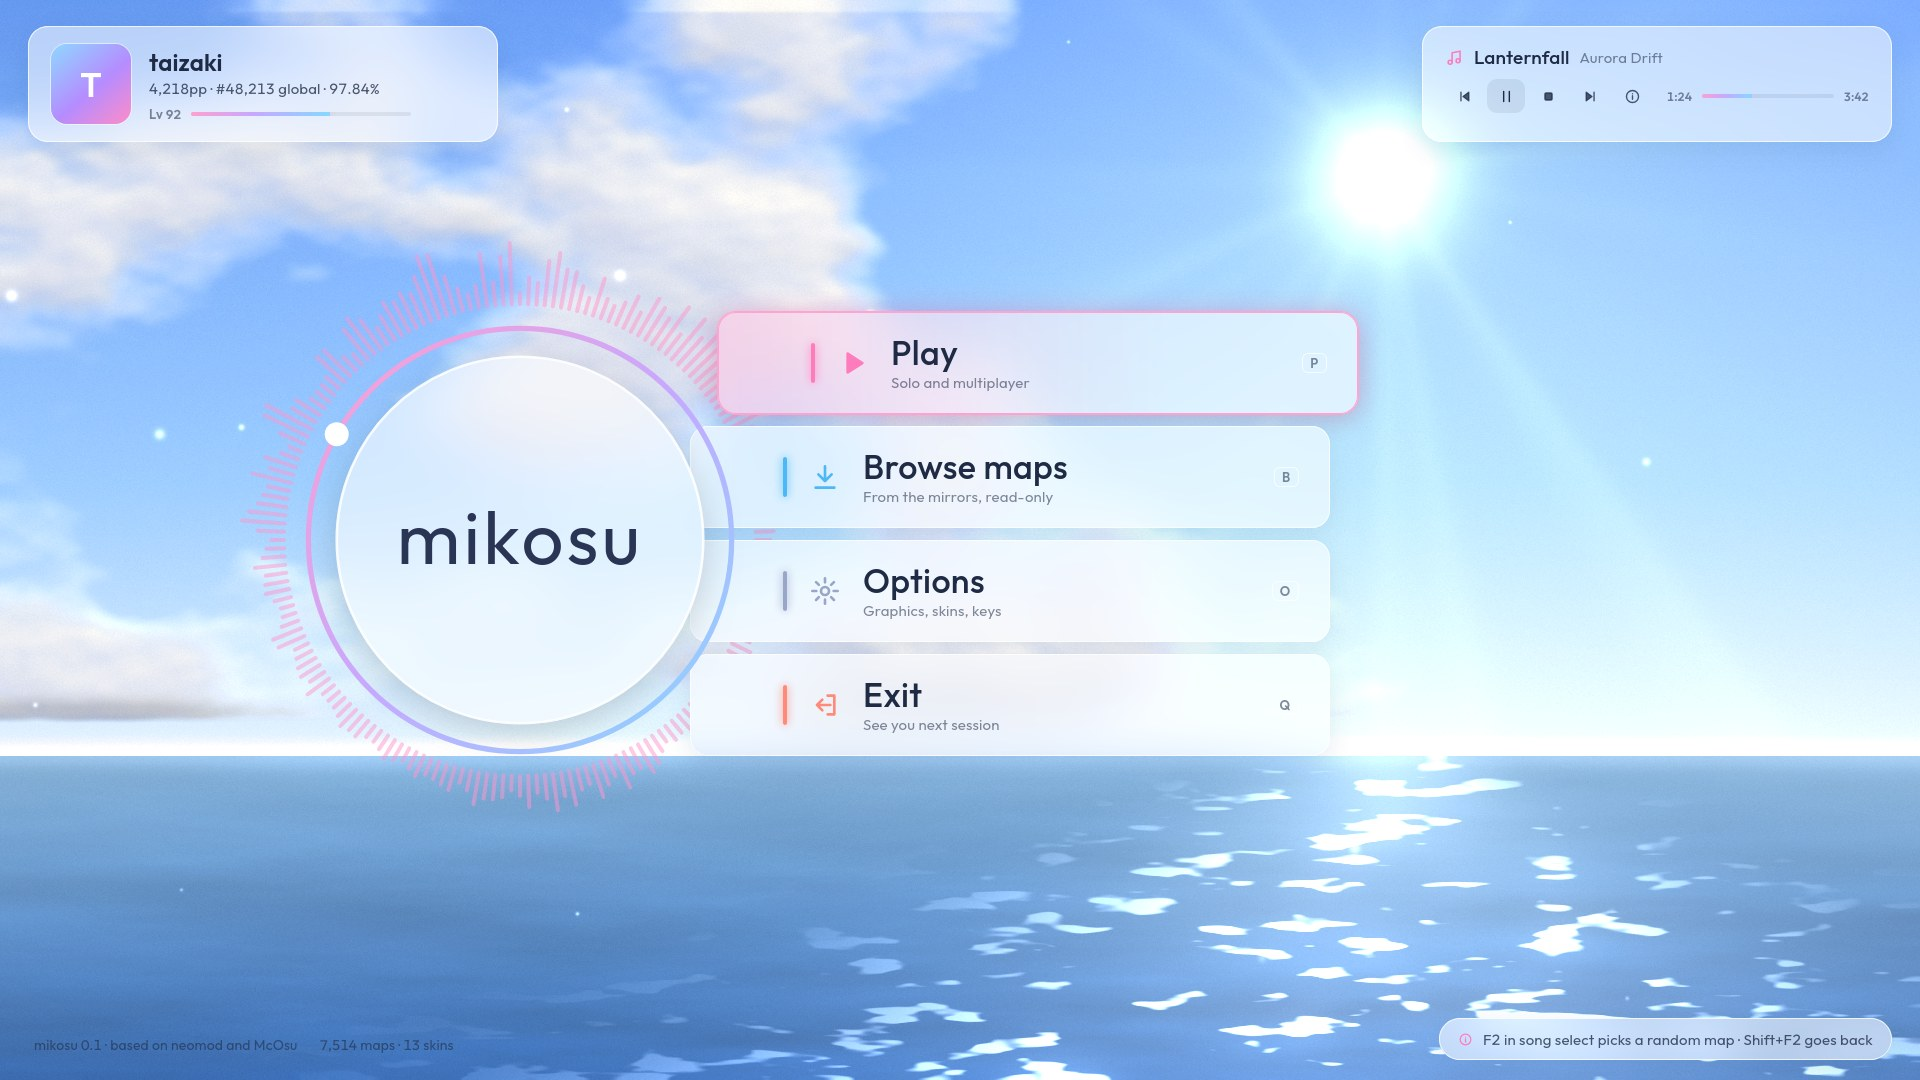
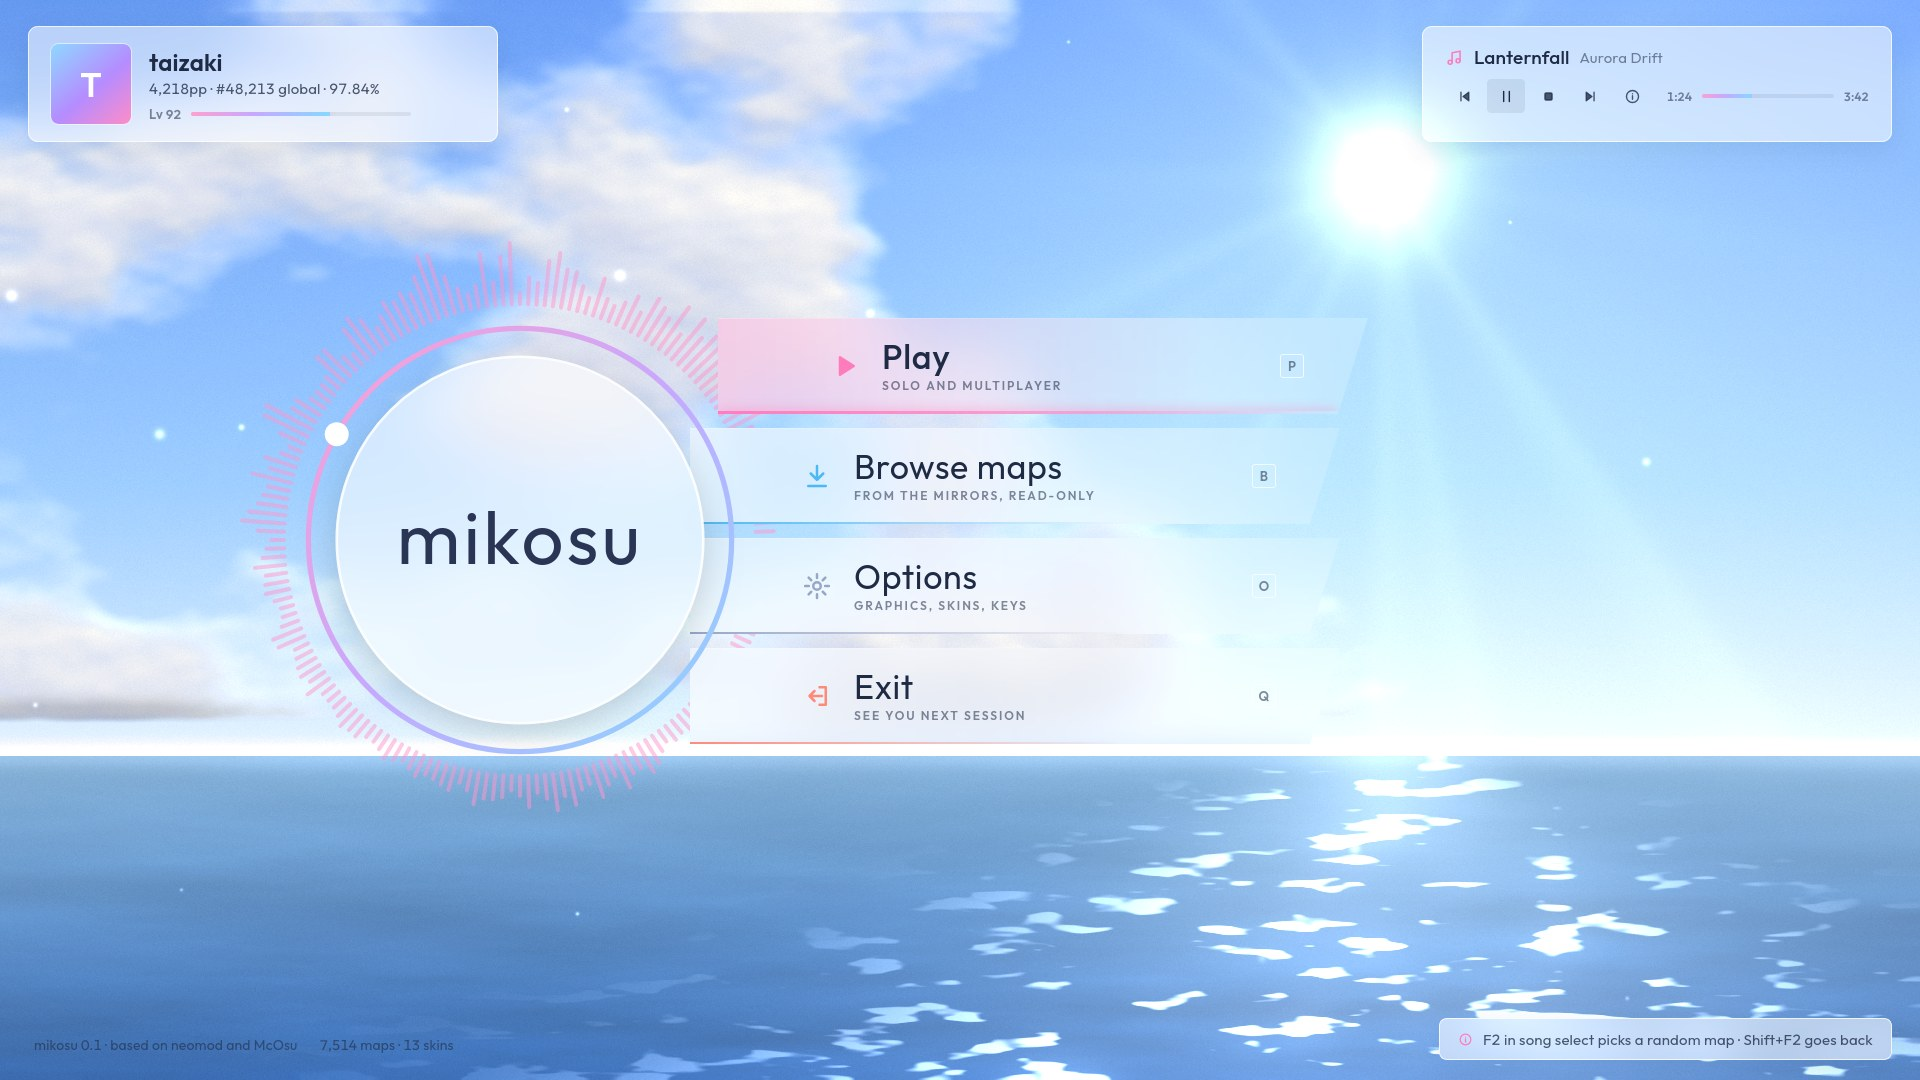
Design: sharper main-menu buttons with a diagonal cut
The user found the rounded main-menu buttons not aesthetic enough. They
become sharp frosted bars ending in song select's diagonal, with a thin
coloured line along the bottom and a small-caps subtitle; the main
screen's cards get smaller radii.

Changed region(s): [[0.375, 0.275, 0.7188, 0.4889], [0.375, 0.5194, 0.5312, 0.7028], [0.375, 0.4278, 0.5625, 0.4889]]

diff --git a/docs/renovation/mockups/src/round4.css b/docs/renovation/mockups/src/round4.css
@@ -272,10 +272,10 @@ svg.i { width: 1em; height: 1em; fill: none; stroke: currentColor; stroke-width:
 .mm-shade { position: absolute; inset: 0; background: radial-gradient(ellipse 70% 80% at 30% 50%, transparent, rgba(8, 12, 30, 0.28)); }
 .v-day .mm-shade { background: radial-gradient(ellipse 70% 80% at 30% 50%, transparent, rgba(255, 255, 255, 0.12)); }
 canvas.viz { position: absolute; left: 0; top: 0; width: 1920px; height: 1080px; }
-.card { position: absolute; border-radius: 20px; border: 1px solid var(--bar-edge); box-shadow: 0 8px 26px rgba(0, 0, 0, 0.16); }
+.card { position: absolute; border-radius: 10px; border: 1px solid var(--bar-edge); box-shadow: 0 8px 26px rgba(0, 0, 0, 0.16); }
 .v-day .card { box-shadow: 0 8px 26px rgba(40, 70, 120, 0.12); }
 .ucard { left: 28px; top: 26px; width: 470px; height: 116px; display: flex; align-items: center; gap: 18px; padding: 0 22px; }
-.ucard .av { width: 80px; height: 80px; border-radius: 16px; background: linear-gradient(140deg, #8fd8ff, #b58cff 55%, #ff8cc8); display: grid; place-items: center; font-size: 34px; font-weight: 600; color: #fff; flex: none; box-shadow: 0 0 0 1px rgba(255, 255, 255, 0.5); }
+.ucard .av { width: 80px; height: 80px; border-radius: 8px; background: linear-gradient(140deg, #8fd8ff, #b58cff 55%, #ff8cc8); display: grid; place-items: center; font-size: 34px; font-weight: 600; color: #fff; flex: none; box-shadow: 0 0 0 1px rgba(255, 255, 255, 0.5); }
 .ucard b { font-size: 24px; font-weight: 600; display: block; }
 .ucard small { font-size: 15px; color: var(--ink2); display: block; margin-top: 2px; }
 .ucard .lvr { display: flex; align-items: center; gap: 10px; margin-top: 8px; font-size: 13px; font-weight: 600; color: var(--ink3); }
@@ -286,26 +286,31 @@ canvas.viz { position: absolute; left: 0; top: 0; width: 1920px; height: 1080px;
 .npcard .song .i { color: var(--pink); }
 .npcard .song small { color: var(--ink3); font-size: 15px; font-weight: 400; }
 .npcard .ctl { display: flex; align-items: center; gap: 4px; }
-.npcard .cb { width: 38px; height: 34px; display: grid; place-items: center; border-radius: 10px; font-size: 17px; color: var(--ink2); }
+.npcard .cb { width: 38px; height: 34px; display: grid; place-items: center; border-radius: 4px; font-size: 17px; color: var(--ink2); }
 .npcard .cb.on { background: var(--chip); color: var(--ink); }
 .npcard .prog { flex: 1; margin-left: 12px; display: flex; align-items: center; gap: 10px; font-size: 12px; font-weight: 600; color: var(--ink3); }
 .npcard .bar { flex: 1; height: 4px; border-radius: 2px; background: var(--chip); overflow: hidden; }
 .npcard .bar i { display: block; width: 38%; height: 100%; background: var(--line); box-shadow: 0 0 8px var(--line-glow); }
 
-.mm-buttons { position: absolute; left: 690px; top: 312px; display: flex; flex-direction: column; gap: 12px; z-index: 1; }
-/* stable's buttons, as matte glass rows like song select's: a coloured marker and icon, no shine */
-.mb { width: 640px; height: 102px; border-radius: 18px; display: flex; align-items: center; gap: 22px; padding: 0 30px 0 112px; position: relative; border: 1px solid var(--bar-edge); box-shadow: 0 8px 24px rgba(0, 0, 0, 0.12); color: var(--ink); --layer: linear-gradient(var(--bar), var(--bar)); }
-.v-day .mb { box-shadow: 0 8px 24px rgba(40, 70, 120, 0.1); }
-.mb::before { content: ""; position: absolute; left: 92px; top: 30px; bottom: 30px; width: 4px; border-radius: 2px; background: var(--acc); box-shadow: 0 0 10px var(--acc); }
-.mb .ic { font-size: 32px; color: var(--acc); margin-left: 6px; }
-.mb .lbl { display: flex; flex-direction: column; gap: 3px; }
-.mb .lbl b { font-size: 34px; font-weight: 500; letter-spacing: 0.01em; line-height: 1.05; }
-.mb .lbl small { font-size: 15px; font-weight: 400; color: var(--ink3); }
-.mb .k { margin-left: auto; font-size: 13px; font-weight: 600; letter-spacing: 0.06em; color: var(--ink3); border: 1px solid var(--bar-edge); border-radius: 6px; padding: 1px 7px; }
-.mb.hov { margin-left: 28px; border-color: color-mix(in srgb, var(--acc) 70%, white); box-shadow: 0 0 0 1px color-mix(in srgb, var(--acc) 70%, white), 0 0 26px color-mix(in srgb, var(--acc) 40%, transparent), 0 8px 24px rgba(0, 0, 0, 0.12); --layer: linear-gradient(90deg, color-mix(in srgb, var(--acc) 26%, var(--bar)), var(--bar) 70%); }
+.mm-buttons { position: absolute; left: 690px; top: 318px; display: flex; flex-direction: column; gap: 14px; z-index: 1; }
+/* stable's buttons: sharp frosted bars with a diagonal cut at the end (song select's diagonal), fading out to the
+   right, a thin glowing line along the bottom in the button's colour; no rounded boxes, no shine */
+.mb { width: 650px; height: 96px; display: flex; align-items: center; gap: 22px; padding: 0 64px 0 112px; position: relative; color: var(--ink);
+      clip-path: polygon(0 0, 100% 0, calc(100% - 30px) 100%, 0 100%);
+      --layer: linear-gradient(90deg, var(--bar), color-mix(in srgb, var(--bar) 70%, transparent) 75%, color-mix(in srgb, var(--bar) 35%, transparent)); }
+.mb::after { content: ""; position: absolute; left: 0; right: 30px; bottom: 0; height: 2px; background: linear-gradient(90deg, var(--acc), color-mix(in srgb, var(--acc) 0%, transparent) 70%); }
+.mb::before { content: ""; position: absolute; left: 0; right: 0; top: 0; height: 1px; background: linear-gradient(90deg, rgba(255, 255, 255, 0.28), transparent 80%); }
+.mb .ic { font-size: 30px; color: var(--acc); }
+.mb .lbl { display: flex; flex-direction: column; gap: 4px; }
+.mb .lbl b { font-size: 34px; font-weight: 400; letter-spacing: 0.02em; line-height: 1.05; }
+.mb .lbl small { font-size: 12px; font-weight: 600; letter-spacing: 0.16em; text-transform: uppercase; color: var(--ink3); }
+.mb .k { margin-left: auto; font-size: 13px; font-weight: 600; color: var(--ink3); border: 1px solid var(--bar-edge); border-radius: 3px; width: 24px; height: 24px; display: grid; place-items: center; }
+.mb.hov { margin-left: 28px; --layer: linear-gradient(90deg, color-mix(in srgb, var(--acc) 30%, var(--bar)), color-mix(in srgb, var(--bar) 70%, transparent) 75%, color-mix(in srgb, var(--bar) 35%, transparent)); }
+.mb.hov::after { right: 30px; height: 3px; background: linear-gradient(90deg, var(--acc), color-mix(in srgb, var(--acc) 60%, transparent) 60%, transparent); box-shadow: 0 0 12px var(--acc); }
+.mb.hov .lbl b { font-weight: 500; }
 .mm-foot { position: absolute; left: 34px; bottom: 26px; font-size: 14px; color: var(--ink3); display: flex; gap: 22px; }
 .v-day .mm-foot { color: rgba(31, 43, 69, 0.6); }
-.tip { position: absolute; right: 28px; bottom: 20px; height: 42px; display: flex; align-items: center; gap: 10px; padding: 0 18px; border-radius: 21px; font-size: 15px; color: var(--ink2); }
+.tip { position: absolute; right: 28px; bottom: 20px; height: 42px; display: flex; align-items: center; gap: 10px; padding: 0 18px; border-radius: 8px; font-size: 15px; color: var(--ink2); }
 .tip .i { color: var(--pink); }
 
 /* daylight: deeper grade colours on white glass */

diff --git a/docs/renovation/DESIGN.md b/docs/renovation/DESIGN.md
@@ -97,6 +97,7 @@ Stable's exact composition, made modern. Mockups: `mockups/{mainmenu4,songselect
   2. **Moon:** navy glass everywhere, colour only as thin edges and icons, white selection; the calmest.
   3. **Day:** white frosted glass with dark text and pastel pink/blue tints; the brightest.
 - **Logo:** still a placeholder, now flat and matte: a frosted disc inside a thin approach ring in the theme's line colours, the hit dot, and the wordmark at a light weight. The real logo is a separate branding decision.
+- **Main-menu buttons** (the user: "i don't like some of the roundness in the buttons in the main screen make it more aesthetic"): sharp frosted bars with a diagonal cut at the right end (song select's diagonal), fading out to the right, a thin line along the bottom in the button's colour, the label at a light weight with a letter-spaced small-caps line under it. The main screen's cards use small radii (8–10 px).
 - **Not Frutiger Aero** (the user, on the glossy first version of the main menu: "way too frutiger aero for my liking"): no glossy highlights, no shine on buttons, no orbs or bubbles. Glass stays matte and frosted, like song select (which the user liked), and colour lives in thin markers, lines and icons.
 - **Search (binding, the user's rule):** in song select, typing goes straight into the search, as in stable: no shortcut, no click, no focus step. The search field only shows what's typed ("Just type to search…" when empty). Backspace deletes, Escape clears, arrows and Enter keep driving the carousel. The game already works this way (`SongBrowser::onChar`); the redesign must keep it.
 
